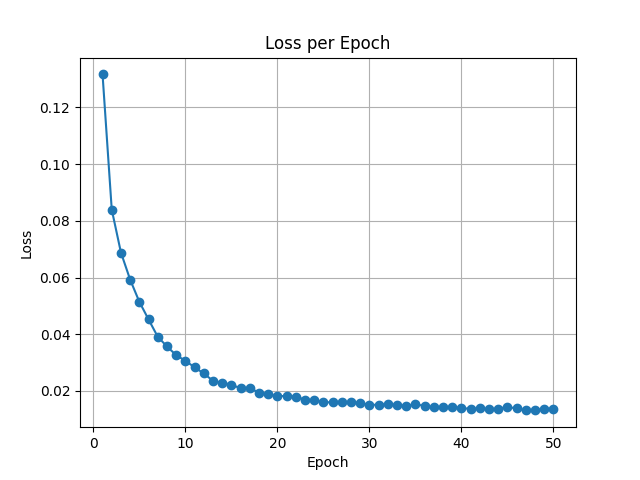
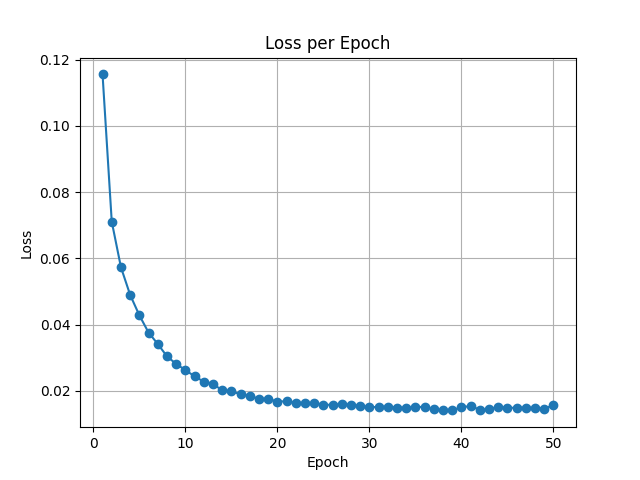
trained new models

diff --git a/tools/tools.py b/tools/tools.py
@@ -1,0 +1,92 @@
+import os
+from PIL import Image
+
+def convert_to_png(input_dir, output_dir, prefix):
+    # Create the output directory if it doesn't exist
+    if not os.path.exists(output_dir):
+        os.makedirs(output_dir)
+
+    # Loop through all files in the input directory
+    for i, filename in enumerate(os.listdir(input_dir), start=1):
+        # Construct the full file path
+        file_path = os.path.join(input_dir, filename)
+        
+        # Open the image file
+        try:
+            with Image.open(file_path) as img:
+                # Create the output file path with the format prefix_ith_image.png
+                output_file = f"{prefix}_{i}.png"
+                output_path = os.path.join(output_dir, output_file)
+                
+                # Save the image as PNG
+                img.save(output_path, 'PNG')
+                print(f"Converted {filename} to {output_file}")
+        except Exception as e:
+            print(f"Failed to convert {filename}: {e}")
+
+
+def replace_first_element_in_files(directory, old_value=2, new_value=1):
+    # Loop through all text files in the directory
+    for filename in os.listdir(directory):
+        if filename.endswith(".txt"):
+            file_path = os.path.join(directory, filename)
+            
+            # Read the content of the file
+            with open(file_path, 'r') as file:
+                lines = file.readlines()
+
+            # Modify the first element of each line
+            modified_lines = []
+            for line in lines:
+                elements = line.split()
+                if len(elements) > 0 and elements[0] == str(old_value):
+                    elements[0] = str(new_value)
+                modified_lines.append(' '.join(elements) + '\n')
+
+            # Write the modified lines back to the same file
+            with open(file_path, 'w') as file:
+                file.writelines(modified_lines)
+
+            print(f"Updated {filename}")
+    
+
+def delete_lines_starting_with(directory, element_to_remove):
+    # Loop through all text files in the directory
+    for filename in os.listdir(directory):
+        if filename.endswith(".txt"):
+            file_path = os.path.join(directory, filename)
+            
+            # Read the content of the file
+            with open(file_path, 'r') as file:
+                lines = file.readlines()
+
+            # Filter out lines that start with the given element
+            filtered_lines = []
+            for line in lines:
+                elements = line.split()
+                if len(elements) > 0 and elements[0] != str(element_to_remove):
+                    filtered_lines.append(line)
+
+            # Write the filtered lines back to the same file
+            with open(file_path, 'w') as file:
+                file.writelines(filtered_lines)
+
+            print(f"Updated {filename} (removed lines starting with {element_to_remove})")
+
+
+
+if __name__ == '__main__':
+    ######################### FUNCTION 1 ############################
+    # input_dir = "/home/eherrin@ad.ufl.edu/Documents/ugvs"
+    # output_dir = "/home/eherrin@ad.ufl.edu/Documents/ugvs_converted"
+    # prefix = "ugv_image"
+    # convert_to_png(input_dir, output_dir, prefix)
+
+    ######################### FUNCTION 2 ############################
+    # Use the function to update the files in the given directory
+    directory = "/home/eherrin@ad.ufl.edu/code/gitlab_dev/raiteclassify/data/archive/ugv_dataset/train/labels"
+    replace_first_element_in_files(directory)
+
+    ######################### FUNCTION 3 ############################
+    # directory = "/home/eherrin@ad.ufl.edu/Downloads/lab_robots_video_labels"
+    # delete_lines_starting_with(directory, element_to_remove=2) # making UGV

diff --git a/inference_person.py b/inference_person.py
@@ -42,34 +42,26 @@ for image_name in all_images:
 test_images = [image.to(device) for image in test_images]
 
 # Load the weights
-model = torch.load('models/fasterrcnn_resnet50_fpn_drone_v2.pth')
+model = fasterrcnn_resnet50_fpn(pretrained=True)
 model.to(device)
 model.eval()
-
-# for i, image_tensor in enumerate(transformed_images[:2]):  # Change the range if you want to visualize more images
-#     # Convert tensor back to NumPy for visualization
-#     image_np = image_tensor.permute(1, 2, 0).cpu().numpy()  # Change shape to [H, W, C]
-    
-#     # Plotting
-#     plt.figure(figsize=(10, 10))
-#     plt.imshow(image_np)
-#     plt.title(f"Transformed Image {i+1} Before Prediction")
-#     plt.axis("off")
-#     plt.show()
 
 
 with torch.no_grad():
     predictions = model(test_images[:12])
 
-for prediction in predictions:
-    print(prediction)
+for i, prediction in enumerate(predictions):
+    print(f"Image {i}: {prediction}")
 
 # Visualize bounding boxes on original images
+person_class_id = 1
 for i, prediction in enumerate(predictions):
     # Extract bounding boxes, labels, and scores
     boxes = prediction['boxes'].cpu().numpy()  # Move to CPU and convert to NumPy
     labels = prediction['labels'].cpu().numpy()  # Move to CPU and convert to NumPy
     scores = prediction['scores'].cpu().numpy()  # Move to CPU and convert to NumPy
+
+    boxes = boxes[(labels == person_class_id) & (scores > .1)]
 
     original_height, original_width = original_images[i].shape[:2]
     

diff --git a/dataset.py b/dataset.py
@@ -18,7 +18,7 @@ class RAITEDataset(Dataset):
         self.height = height
         self.width = width
         self.classes = classes
-        self.all_images = [f for f in os.listdir(dir_path) if f.endswith(".jpg")]
+        self.all_images = [f for f in os.listdir(dir_path) if f.endswith(".jpg") or f.endswith(".png")]
 
     def __len__(self):
         return len(self.all_images)
@@ -26,7 +26,12 @@ class RAITEDataset(Dataset):
     def __getitem__(self, idx):
         image_name = self.all_images[idx]
         image_path = os.path.join(self.dir_path, image_name)
-        ann_path = os.path.join(self.ann_path, image_name.replace(".jpg", ".txt"))
+        if image_name.endswith(".jpg"):
+            ann_path = os.path.join(self.ann_path, image_name.replace(".jpg", ".txt"))
+        elif image_name.endswith(".png"):
+            ann_path = os.path.join(self.ann_path, image_name.replace(".png", ".txt"))
+        else:
+            print("Sorry, only png and jpg file types accepted.")
 
         image_orig = cv2.imread(image_path)
         image = cv2.cvtColor(image_orig, cv2.COLOR_BGR2RGB).astype(np.float32)

diff --git a/object_detection_train.py b/object_detection_train.py
@@ -17,6 +17,8 @@ transform = transforms.Compose([transforms.ToTensor()])
 classes = 2
 dir_path = "data/archive/drone_dataset/train/images"
 ann_path = "data/archive/drone_dataset/train/labels" # contains type and contains other info
+# dir_path = "data/archive/ugv_dataset/train/images"
+# ann_path = "data/archive/ugv_dataset/train/labels"
 width = 200
 height = 200
 train_dataset = RAITEDataset(dir_path, ann_path, width, height, classes, transform=transform)
@@ -39,7 +41,7 @@ optimizer = optim.SGD(model.parameters(), lr=0.001, momentum=0.9, weight_decay=0
 
 model.train()
 
-num_epochs = 20
+num_epochs = 50
 loss_per_epoch = []
 
 # Training loop
@@ -73,7 +75,8 @@ for epoch in range(num_epochs):
     print(f"Epoch [{epoch+1}/{num_epochs}], Loss: {average_loss}")
 
 # Save the model after training
-torch.save(model, 'fasterrcnn_resnet50_fpn_groundRobot.pth')
+torch.save(model, 'models/fasterrcnn_resnet50_fpn_drone_v2.pth')
+#torch.save(model, 'models/fasterrcnn_resnet50_fpn_ugv_v1.pth')
 
 # Plotting the loss per epoch
 plt.figure()
